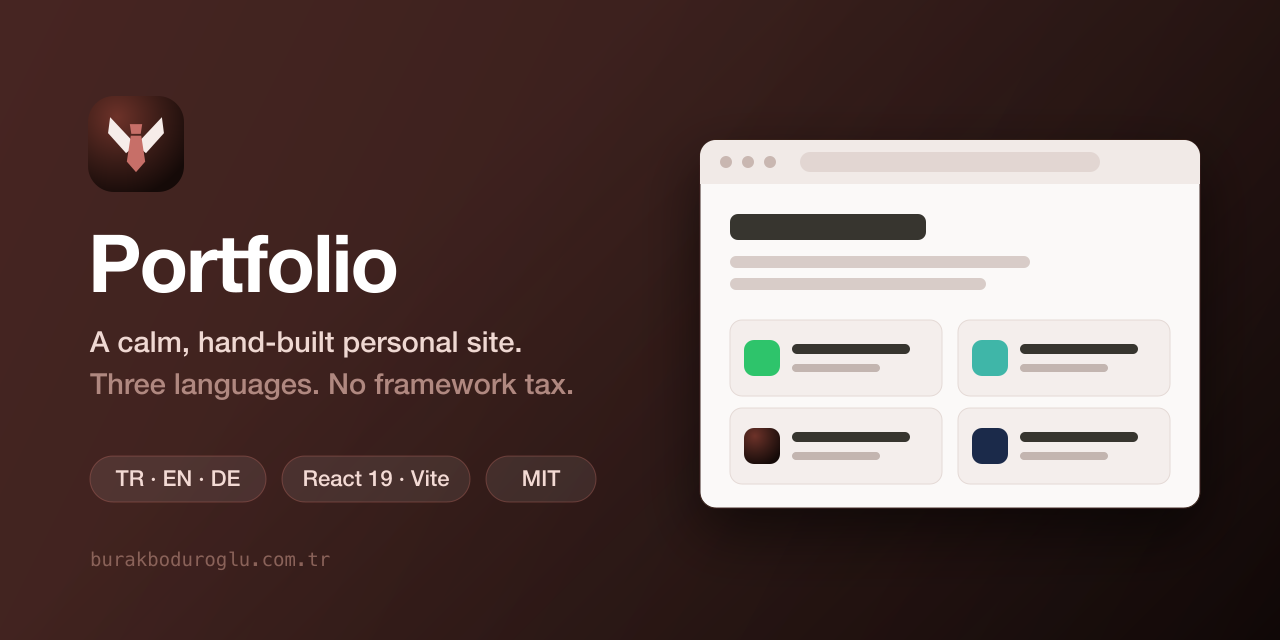
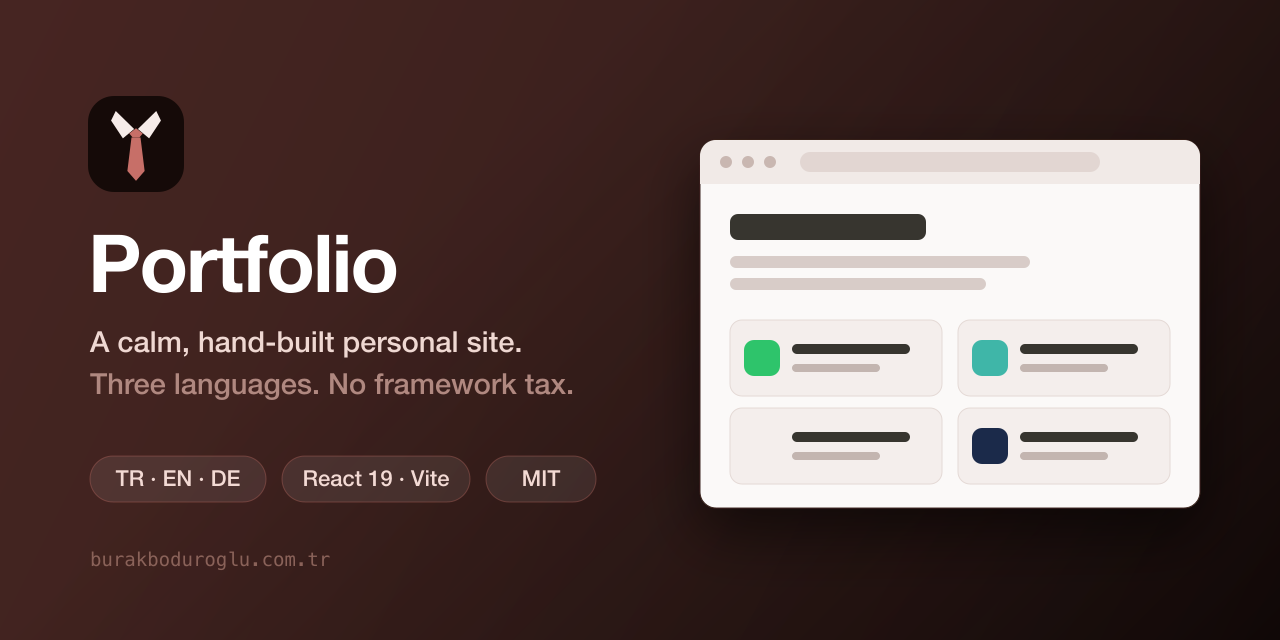
feat(brand): redraw the portfolio mark and drop the MacShelf tile hack
The collar and tie stay — they are personal and they are recognised — but they
are flat now, on a flat plate, with no radial gradient and no rim stroke. That
is the language Skadi arrived with on 2026-09-08, and .portkill and MacShelf
moved to it in the same pass; the shelf reads as one family while each project
keeps its own colour.

The collar was narrowed and the tie widened against the generated concept,
because at 32 px the concept read as a bird rather than a collar. 32 px is the
size the shelf actually renders these at, so it is the size they were judged
at.

MacShelf's tile loses `transform: scale(calc(1024 / 896))`. That rule existed
to push a mark padded inside its own viewBox out to the tile edge; the new SVG
is edge to edge, so the tile just draws it.

Concept generated with Higgsfield and redrawn by hand as SVG; the brief and the
rejected variants are in the studio workspace.

Changed region(s): [[0.0625, 0.125, 0.1562, 0.2812], [0.5625, 0.6562, 0.625, 0.7188]]

diff --git a/src/styles.css b/src/styles.css
@@ -661,17 +661,10 @@ blockquote {
 .store-app-icon.dizey img,
 .store-app-icon.skadi.has-logo img,
 .store-app-icon.portfolio.has-logo img,
-.store-app-icon.portkill.has-logo img {
-  width: 100%;
-  height: 100%;
-}
-
-/* MacShelf's SVG pads a 896px mark inside a 1024 viewBox — scale past that
-   transparent margin so the teal plate meets the tile edge. */
+.store-app-icon.portkill.has-logo img,
 .store-app-icon.dark.has-logo img {
   width: 100%;
   height: 100%;
-  transform: scale(calc(1024 / 896));
 }
 
 .get-in-touch {

diff --git a/CHANGELOG.md b/CHANGELOG.md
@@ -6,6 +6,15 @@ follows [Semantic Versioning](https://semver.org/spec/v2.0.0.html).
 
 ## [Unreleased]
 
+### Changed
+
+- The project shelf carries one icon family instead of four systems. .portkill,
+  MacShelf and the portfolio were redrawn against the language Skadi arrived
+  with: flat geometry, two inks, a near-black plate, edge to edge, legible at
+  32 px. Each mark keeps its own colour, so the shelf reads as a set without
+  the projects losing their identity. MacShelf's tile no longer needs the
+  `scale(1024 / 896)` rule that pushed its padded SVG out to the tile edge.
+
 ### Added
 
 - Skadi on the project shelf, with its own page at `/projects/skadi` and its
